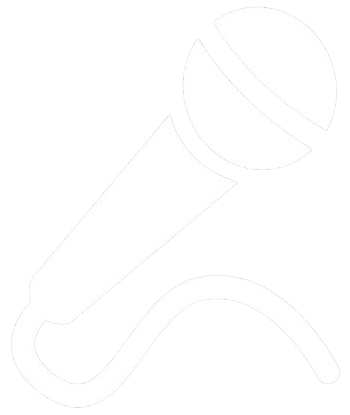
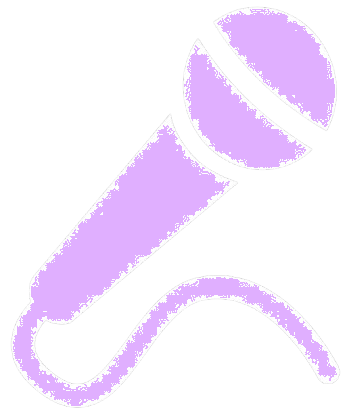
fixed

Changed region(s): [[0.0286, 0.2892, 0.9714, 0.9831], [0.6286, 0.0, 0.9714, 0.3181], [0.5143, 0.1157, 0.8857, 0.4048]]

diff --git a/src/pages/About.jsx b/src/pages/About.jsx
@@ -43,8 +43,8 @@ const About = () => {
                         <h5>About Us</h5>
                         <h1>24 Pods — Turning <span className="highlight">Your Ideas into Must-Listen Podcasts</span></h1>
                         <p>
-                            <p>Podcasts are everywhere. But let’s be honest — most of them never make it past a few episodes. Not because the ideas aren’t good. Not because the guests aren’t interesting.
-                                It’s because creating a podcast that people actually want to hear takes more than a mic and a Zoom link.</p><br></br>
+                            Podcasts are everywhere. But let’s be honest — most of them never make it past a few episodes. Not because the ideas aren’t good. Not because the guests aren’t interesting.
+                            It’s because creating a podcast that people actually want to hear takes more than a mic and a Zoom link.<br></br>
 
                             It takes story craft. It takes editing precision. It takes knowing exactly how to turn one conversation into something binge-worthy.<br></br><br></br>
 
@@ -179,7 +179,7 @@ const About = () => {
 
                 </div>
             </div>
-            <div className="video-container guest-third-section">
+            {/* <div className="video-container guest-third-section">
                 <video
                     className="bg-video"
                     src="/videos/garima-and-rachecl.mp4"
@@ -193,6 +193,53 @@ const About = () => {
                         objectPosition: "center"
                     }}
                 />
+                <div className="overlay" style={{ backgroundColor: "#f3f3f33d" }} />
+
+                <div className="home-content guest-third">
+                    <h5 style={{ color: "#660033", paddingBottom: "10px" }} data-aos="fade-down">Why We Exist</h5>
+                    <p className='about-gif-pargharph' data-aos="zoom-in" style={{ margin: "0" }}>We’re here so your podcast doesn’t just “go live” — it lives in people’s heads.
+                        We don’t want you to be another show in the feed. We want you to be the show people tell their friends about.</p>
+                    <button className="button home-button" data-aos="fade-up">
+                        <a href="/contact_us">Join Us</a>
+                    </button>
+                </div>
+            </div> */}
+
+            <div className="video-container guest-third-section">
+             
+                 {/* Desktop / Laptop */}
+      <video
+        className="bg-video video-desktop"
+        src="/videos/garima-and-rachecl.mp4"
+        autoPlay
+        muted
+        loop
+        playsInline
+        preload="metadata"
+      />
+
+      {/* Tablet */}
+      <video
+        className="bg-video video-tablet"
+        src="/videos/garima-and-rachecl.mp4"
+        autoPlay
+        muted
+        loop
+        playsInline
+        preload="metadata"
+      />
+
+      {/* Mobile */}
+      <video
+        className="bg-video video-mobile"
+        src="/videos/garima-and-rachecl.mp4"
+        autoPlay
+        muted
+        loop
+        playsInline
+        preload="metadata"
+      />
+
                 <div className="overlay" style={{ backgroundColor: "#f3f3f33d" }} />
 
                 <div className="home-content guest-third">

diff --git a/src/pages/Guest.jsx b/src/pages/Guest.jsx
@@ -28,8 +28,8 @@ const Help = () => {
                 </div>
             </div>
             <div className="about-third guest-second">
-                <img src="/images/microphone.png" alt="" className='guest-second-section-img' />
-                <img src="/images/sound-img.png" alt="" className='guest-second-section-second-img' />
+                {/* <img src="/images/microphone.png" alt="" className='guest-second-section-img' />
+                <img src="/images/sound-img.png" alt="" className='guest-second-section-second-img' /> */}
                 <div className="about-container guest-second-section container">
                     <div className="editing-content">
                         <div className="heading" style={{ textAlign: "center" }}>
@@ -57,18 +57,43 @@ const Help = () => {
 
                 </div>
             </div>
+            
             <div className="video-container guest-third-section">
+
+                {/* Desktop / Laptop */}
                 <video
-                    className="bg-video"
+                    className="bg-video video-desktop"
                     src="/videos/garima-and-rachecl.mp4"
                     autoPlay
                     muted
                     loop
                     playsInline
-                    preload="auto"
-                    style={{ width: "100%", height: "100%", objectFit: "cover", objectPosition: "center" }}
+                    preload="metadata"
                 />
-                <div className="overlay" />
+
+                {/* Tablet */}
+                <video
+                    className="bg-video video-tablet"
+                    src="/videos/garima-and-rachecl.mp4"
+                    autoPlay
+                    muted
+                    loop
+                    playsInline
+                    preload="metadata"
+                />
+
+                {/* Mobile */}
+                <video
+                    className="bg-video video-mobile"
+                    src="/videos/garima-and-rachecl.mp4"
+                    autoPlay
+                    muted
+                    loop
+                    playsInline
+                    preload="metadata"
+                />
+
+                <div className="overlay" style={{ backgroundColor: "#1d1033a6" }} />
 
                 <div className="home-content guest-third">
                     <h5 data-aos="fade-down" style={{ fontSize: "40px" }}>Your Story. Our Studio. Zero Stress.</h5>

diff --git a/src/App.css b/src/App.css
@@ -432,9 +432,12 @@ body {
   flex-direction: column;
   align-items: flex-start;
 }
-
+    
 /* Breakpoints: show only one video */
 @media (min-width: 1025px) {
+  .video-container.guest-third-section {
+    height: 50vh !important;
+}
   .video-desktop {
     display: block;
   }
@@ -491,6 +494,9 @@ body {
 }
 
 @media (max-width: 768px) {
+  .video-container.guest-third-section {
+        height: 30vh !important;
+    }
   .home-content {
     left: 8%;
   }
